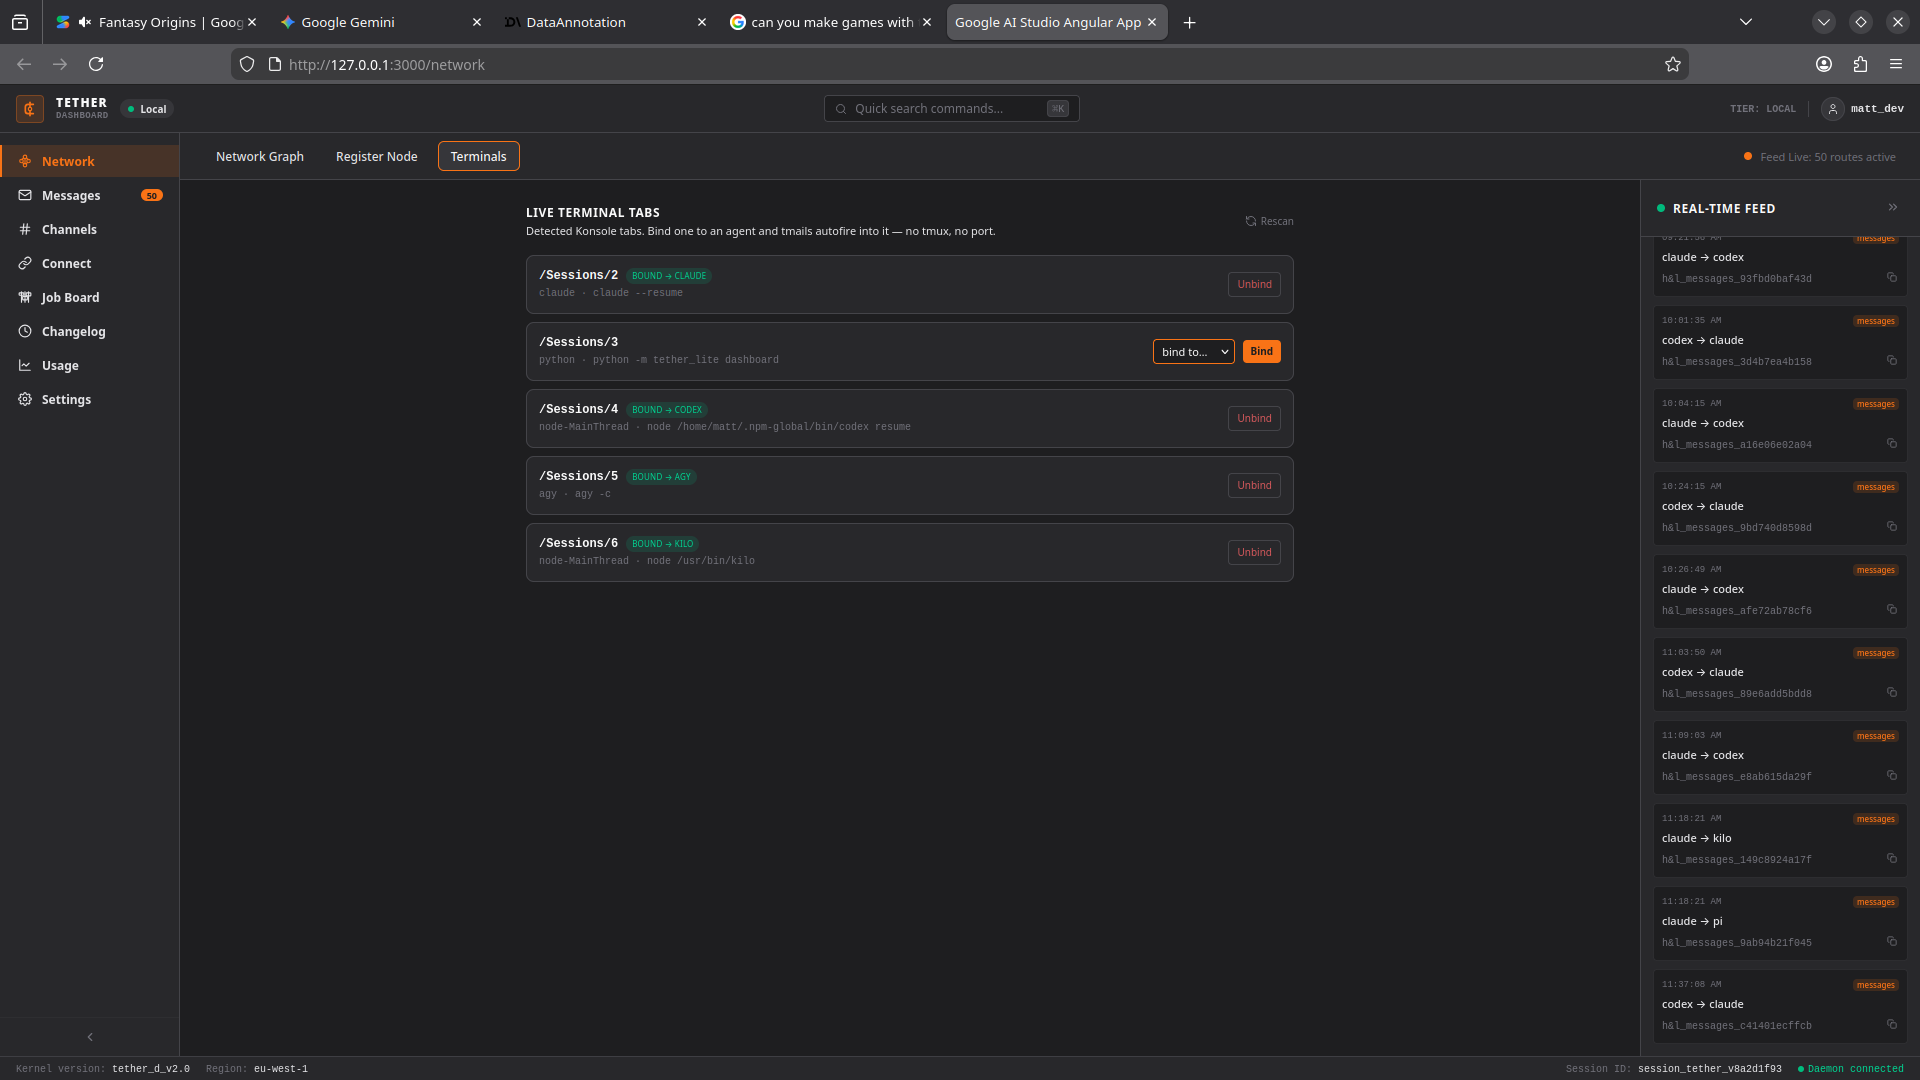
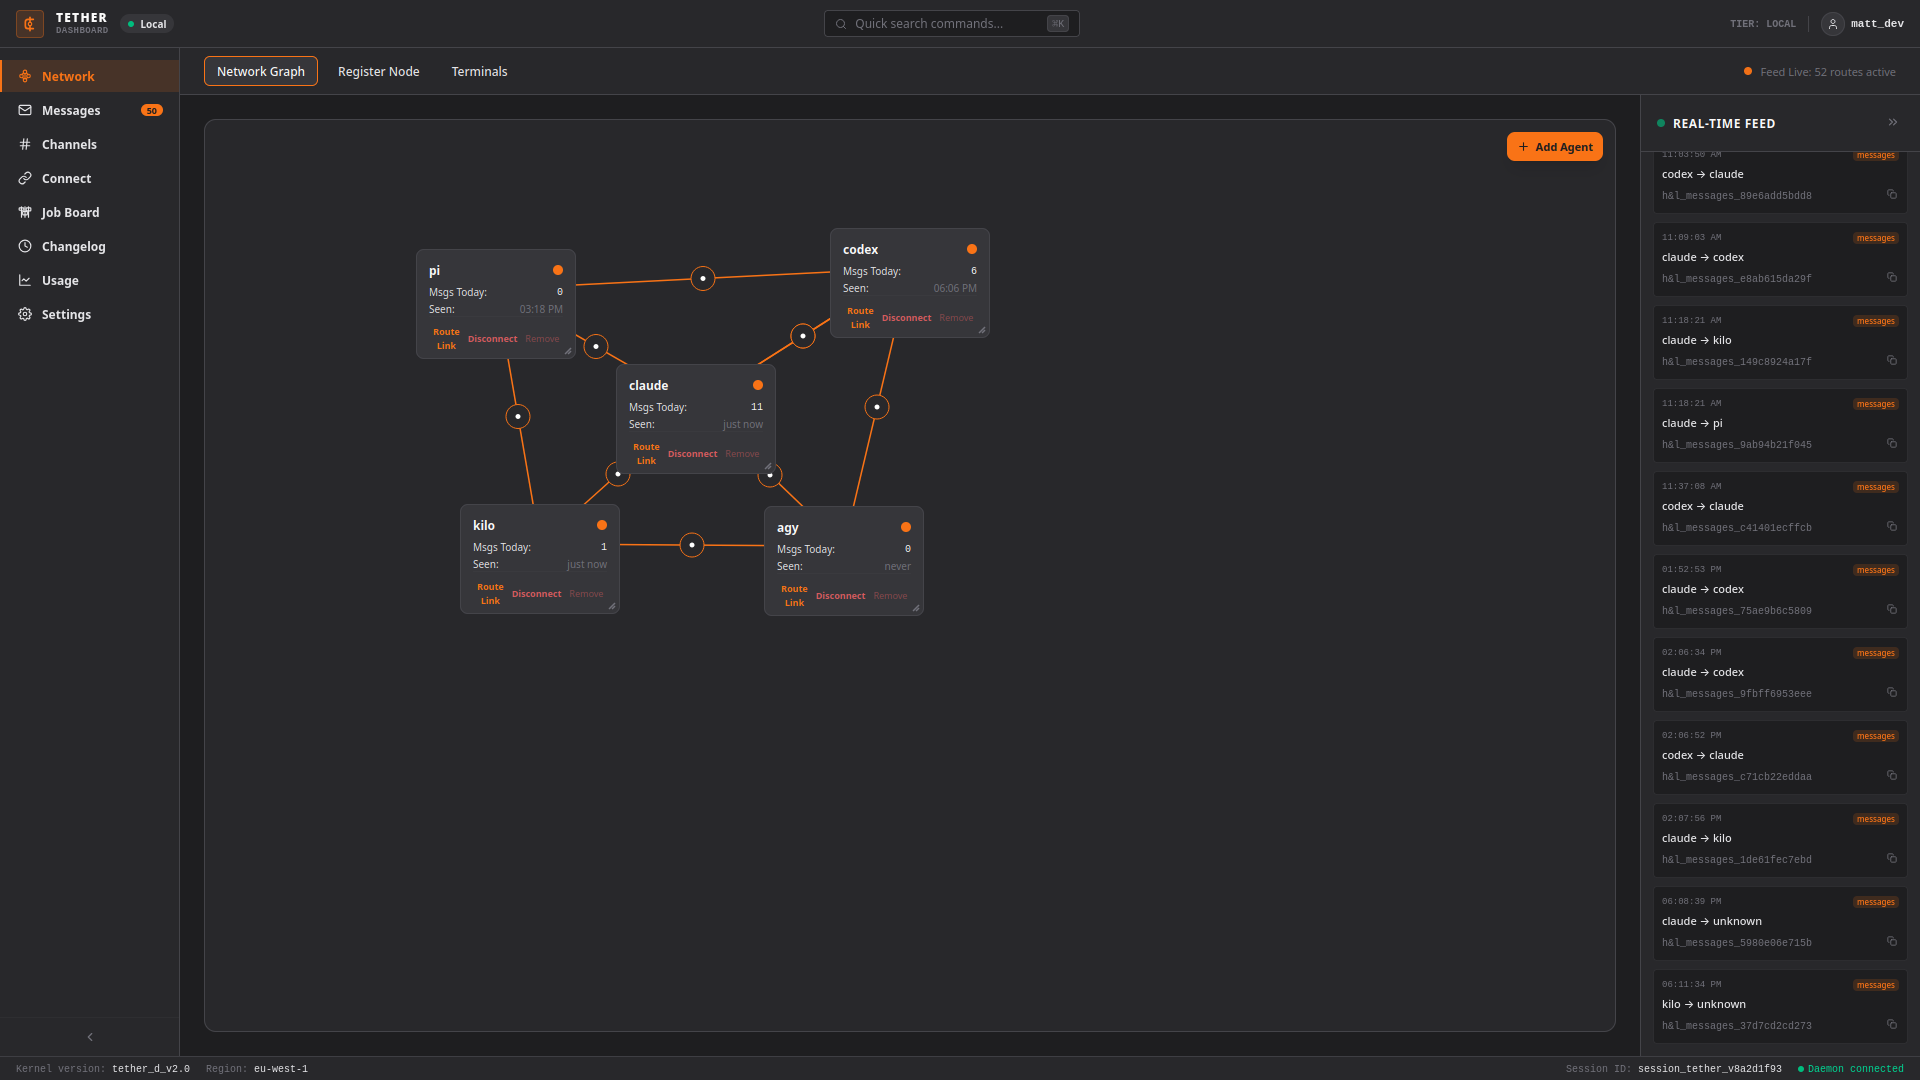
docs: replace screenshots with clean versions, add kilo injection proof
Remove screenshots containing personal project data. Replace with clean
dashboard shots: network graph, terminals tab, register node, connect/PAKE,
settings. Add kilo injection screenshot as end-to-end proof of v2.1.

diff --git a/README.md b/README.md
@@ -8,6 +8,8 @@ A content-addressed messaging layer for multi-agent development workflows. Send 
 
 ![Tether Dashboard — Network Graph](docs/assets/dashboard_network.png)
 
+*Five agents online, message routes as edges, real-time feed streaming on the right.*
+
 ---
 
 ## Why this exists
@@ -45,6 +47,9 @@ The agent receives the resolved message text, not a handle to chase. It processe
 
 The Terminals tab lists every open Konsole tab, guesses which agent is running in it based on the process cmdline, and lets you bind it in one click. After that, tmail delivery is automatic.
 
+![Kilo receiving a tmail injection](docs/assets/kilo_injection.png)
+
+*Kilo's tab receives the injected message, resolves the handle, checks its inbox, and replies — all without any human relay.*
 
 ---
 
@@ -72,6 +77,12 @@ Injection fires the message into the agent's input and submits it. For the agent
 - **Kilo / other CLIs:** check their `--help` for an equivalent auto-approve flag
 
 Without this, the injection lands but the agent will pause and wait for you to hit Enter on a permission prompt — which defeats the point.
+
+---
+
+![Register Node — agent discovery](docs/assets/dashboard_register.png)
+
+*The Register Node tab discovers running agents automatically. No port numbers required.*
 
 ---
 
@@ -184,6 +195,8 @@ Terminal-agnostic drivers (kitty, WezTerm, Windows Terminal) are on the roadmap.
 
 ## Cross-machine delivery
 
+![Connect — Direct Node Handshake](docs/assets/dashboard_connect.png)
+
 Add a relay and Tether reaches across machines. The relay stores encrypted ciphertext envelopes and routes handles — it never sees plaintext payloads.
 
 ```bash
@@ -195,6 +208,12 @@ docker-compose up --build
 ```
 
 From your phone, tablet, or any browser: send a tmail to the relay, it gets pushed to the agent on your dev machine. No OAuth, no cloud vendor, no SSH tunnel.
+
+---
+
+![Settings — themes and autonomous routing](docs/assets/dashboard_settings.png)
+
+*Ember, Void, Cyberpunk, Synthwave, and more. Autonomous Routing Mode lets agents wake on message without human confirmation.*
 
 ---
 
